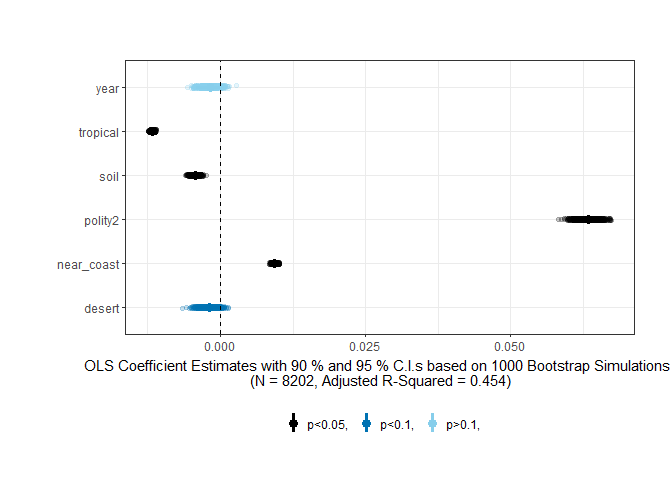
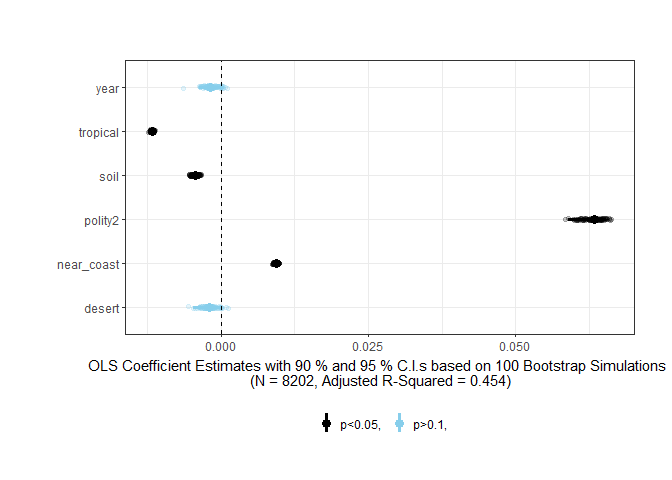
small change to readme

diff --git a/README.md b/README.md
@@ -5,7 +5,7 @@ Sondre U. Solstad
 Easy OLS Coefficient Plots with options in R
 ============================================
 
-QuickCoefPlot is an easy interface for linear regression coefficient plots in R. This includes the option to request robust and clustered standard errors, automatic labeling, and easy selection of coefficients to plot.
+QuickCoefPlot is an easy interface for linear regression coefficient plots in R. This includes the option to request robust, clustered, and bootstrapped standard errors, automatic labeling, and easy selection of coefficients to plot.
 
 Written by Sondre U. Solstad, Princeton University (<ssolstad@princeton.edu>). Send me an email if you find this package useful or want to suggest an improvement or feature.
 
@@ -46,7 +46,7 @@ QuickCoefPlot(model, boot.se = TRUE)
 ![](README_files/figure-markdown_github/unnamed-chunk-2-3.png)
 
 ``` r
-QuickCoefPlot(model, boot.se = TRUE, boot.b = 1000, boot.plot.est = TRUE, legend.on = TRUE)
+QuickCoefPlot(model, boot.se = TRUE, boot.b = 100, boot.plot.est = TRUE, legend.on = TRUE)
 ```
 
 ![](README_files/figure-markdown_github/unnamed-chunk-2-4.png)
@@ -54,11 +54,8 @@ QuickCoefPlot(model, boot.se = TRUE, boot.b = 1000, boot.plot.est = TRUE, legend
 Arguments:
 ----------
 
--   **data** - Data frame in which all model variables are located.
--   **iv.vars** - Vector of independent variable names in dataset (e.g. c("gdppc", "pop"))
--   **iv.vars.names** - *(Optional)* Vector of desired independent variable names in table output (e.g. c("GDP per capita", "Population")). Defaults to values in "iv.vars" if none provided.
--   \*\*model Data frame in which all model variables are located.
--   **iv.vars.names** *(Optional)* Vector of desired independent variable names in table output (e.g. c("GDP per capita", "Population")). Defaults to values in "iv.vars" if none provided.
+-   **model** - Fitted "lm" object (e.g. lm(x ~ y, data = mydata)).
+-   **iv.vars.names** - *(Optional)* Vector of desired independent variable names in plot output (e.g. c("GDP per capita", "Population")). Defaults to variables names if not provided.
 -   **plot.title** *(Optional)* Specifies the title of the coefficient plot. Defaults to no title.
 -   **xlim** *(Optional)* Vector of limits on x-axis of plot. If none supplied, this is automatically selected by ggplot.
 -   \*\*include.only *(Optional)* Vector of coefficients by number to keep in the plot (e.g. c(1, 2, 6)). If none specified, defaults to all.
@@ -74,4 +71,4 @@ Arguments:
 -   **plot.margin** *(Optional)* Vector of plot margins in centimeters. Defaults to (1, 1, 1, 1).
 -   **text.size** *(Optional)* Text size for plot elements.
 -   **hide.summary.lines** *(Optional)* Vector of summary lines to hide in plot output. If none supplied, defaults to none.
--   **horserace** *(Optional)* If TRUE Produces a table comparing t-statistics instead of a coefficient plot.
+-   **horserace** *(Optional)* If TRUE produces a table comparing t-statistics instead of a coefficient plot.
